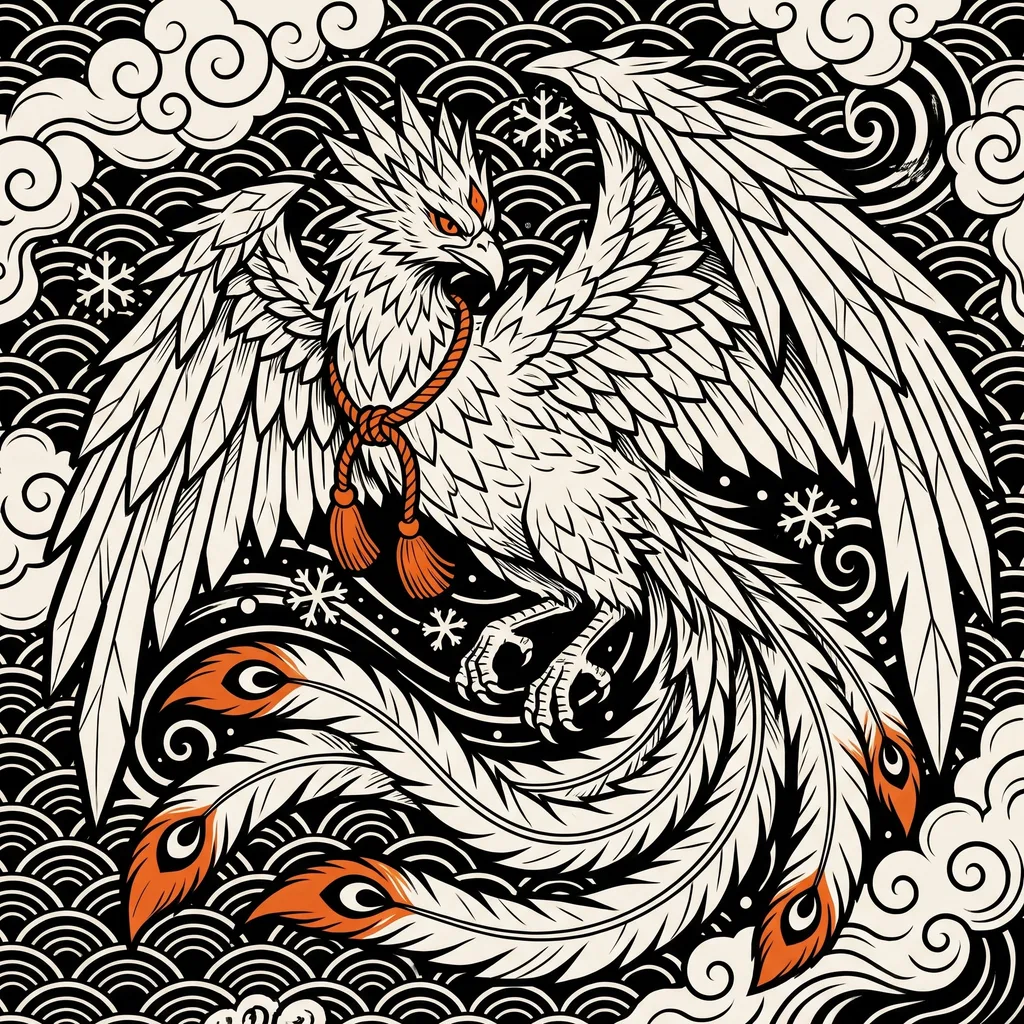
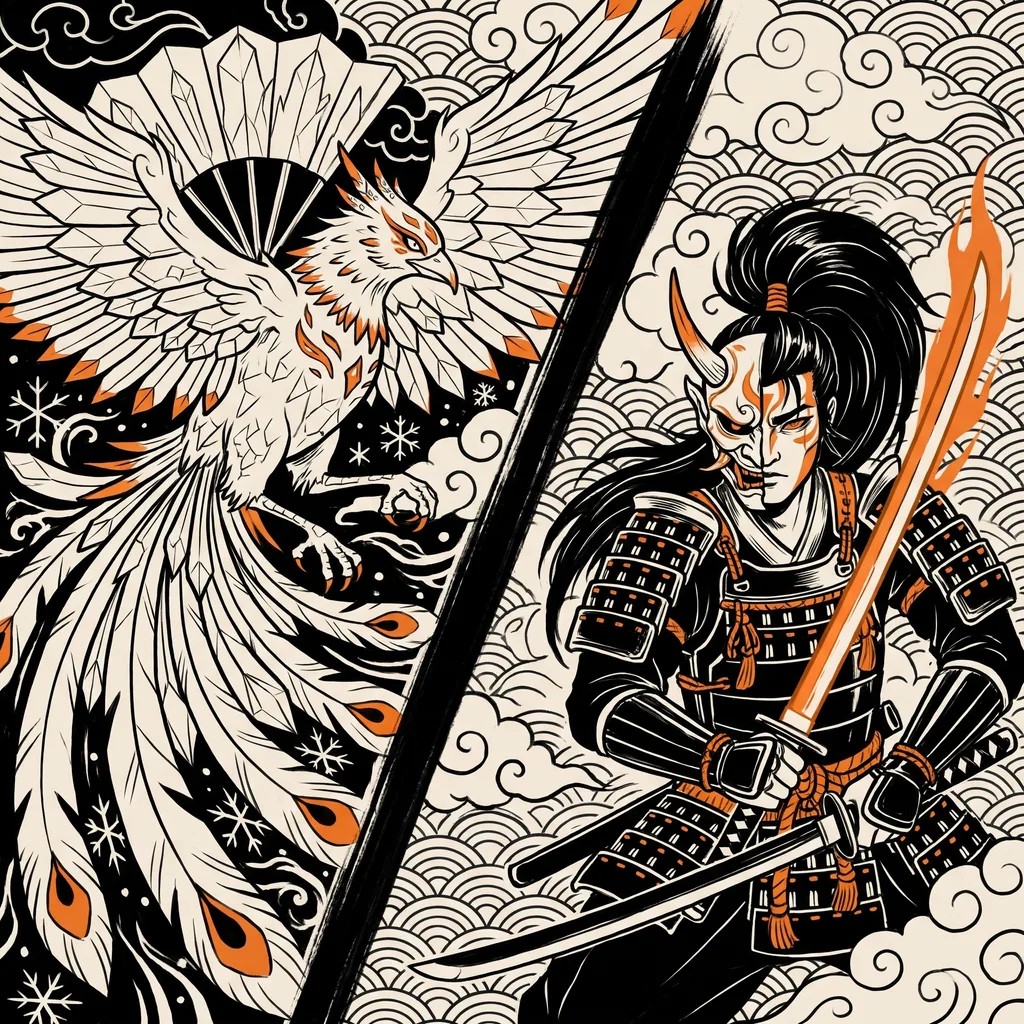
Kitsune completa: PABLO, EL 64, SPORFU / MANU y JEEDA, con sus tiers y sus cartas
- Plantilla y tiers de Kitsune (TORA) que dio el usuario, a la hoja con una importación de una vez
- Dibujos nuevos: Varus (top), Thresh (support) y Anivia + Yone mitad y mitad (medio); Viego se reutiliza
- Los nombres largos van en letra más pequeña en la carta (web y Discord)

diff --git a/public/carta.js b/public/carta.js
@@ -25,7 +25,8 @@ export function cartaHTML(c, { cantidad = null, nombreClan = id => id } = {}) {
   const completa = Boolean(c.fullart) || legado;
   const quien = boost || legado ? escapar(c.subtitulo) : `${ROL[c.rol] || c.rol} · ${escapar(nombreClan(c.clan))}`;
   // Las BOOST llevan su multiplicador bajo el apodo y la frase entera al pasar el ratón
-  return `<div class="carta-g${falta ? ' falta' : ''}${completa ? ' fullart' : ''}${boost ? ' boost' : ''}${legado ? ' legacy' : ''}" data-tier="${k}" style="--color-tier: var(--tier-${k})"${c.bonus ? ` title="${escapar(c.bonus.texto)}"` : ''}>
+  // Los nombres largos (FROZENRONIN, o dos jugadores que comparten carta: «SPORFU / MANU») van en letra más pequeña
+  return `<div class="carta-g${falta ? ' falta' : ''}${completa ? ' fullart' : ''}${String(c.nombre).length > 10 ? ' nombre-largo' : ''}${boost ? ' boost' : ''}${legado ? ' legacy' : ''}" data-tier="${k}" style="--color-tier: var(--tier-${k})"${c.bonus ? ` title="${escapar(c.bonus.texto)}"` : ''}>
     <img class="arte" src="${escapar(c.fullart || c.arte || logo(c.clan))}" alt="" loading="lazy"><span class="velo"></span>
     <span class="hanko rareza" title="${legado ? 'Carta LEGACY' : `Tier ${c.tier}`}">${c.tier}</span>${emblema ? `<img class="logo" src="${emblema}" alt="">` : ''}
     <div class="pie"><b class="nick">${escapar(c.nombre)}</b><span class="rol">${quien}</span>${c.bonus ? `<b class="bonus">${escapar(c.bonus.etiqueta)}</b>` : ''}</div>

diff --git a/public/compartir.js b/public/compartir.js
@@ -202,7 +202,9 @@ export async function dibujarCarta(ctx, c, x, y, w, { cantidad = 1, nombreClan =
     if (emblema) kamon(ctx, emblema, x + w - 11.5 * u, y + 11.5 * u, 7.5 * u, color);
     // Debajo: el nombre en letra de rótulo, inclinado, y el rol con su familia (o lo que hace la BOOST)
     const lineas = c.bonus ? [106, 119, 130] : [107, 122];
-    textoInclinado(ctx, c.nombre, x + 6 * u, y + lineas[0] * u, { fuente: `400 ${10.5 * u}px ${ROTULO}`, base: 'middle', ancho: w * 0.86 });
+    // Los nombres largos, en letra más pequeña (como .nombre-largo en carta.css)
+    const tamano = String(c.nombre).length > 10 ? 7.6 : 10.5;
+    textoInclinado(ctx, c.nombre, x + 6 * u, y + lineas[0] * u, { fuente: `400 ${tamano * u}px ${ROTULO}`, base: 'middle', ancho: w * 0.86 });
     texto(ctx, quien.toUpperCase(), x + 6 * u, y + lineas[1] * u, { fuente: `700 ${4.6 * u}px ${GOTHIC}`, color: C.gris, base: 'middle', ancho: w * 0.88 });
     if (c.bonus) texto(ctx, c.bonus.etiqueta, x + 6 * u, y + lineas[2] * u, { fuente: `800 ${4.6 * u}px ${GOTHIC}`, base: 'middle', ancho: w * 0.88 });
     // El brillo de la tier en el borde: D y C mate, B con canto de color, A y S con neón, S+ en oro

diff --git a/public/carta.css b/public/carta.css
@@ -18,6 +18,7 @@
 .carta-g .pie { position: absolute; left: 6cqw; right: 6cqw; top: 101cqw; bottom: 4cqw; display: flex; flex-direction: column; justify-content: center; gap: .6cqw; }
 .carta-g .nick { font-family: var(--rotulo); font-weight: 400; font-size: 10.5cqw; line-height: 1.1; color: #E7DFD2; transform: skewX(-10deg); transform-origin: left;
   white-space: nowrap; overflow: hidden; text-overflow: ellipsis; }
+.carta-g.nombre-largo .nick { font-size: 7.6cqw; }
 .carta-g .rol { font-size: 4.6cqw; font-weight: 700; letter-spacing: .08em; text-transform: uppercase; color: #A7A3B3; white-space: nowrap; overflow: hidden; text-overflow: ellipsis; }
 .carta-g .bonus { font-size: 4.6cqw; font-weight: 800; color: #E7DFD2; white-space: nowrap; overflow: hidden; text-overflow: ellipsis; }
 .carta-g .cantidad { position: absolute; right: 5cqw; bottom: 5cqw; padding: .6cqw 2.4cqw; background: #E0303A; color: #07080C; font-family: var(--rotulo); font-size: 5.4cqw; transform: skewX(-12deg); }

diff --git a/PROGRESO.md b/PROGRESO.md
@@ -359,3 +359,8 @@ Diseño aprobado en `docs/superpowers/specs/2026-10-04-ingame-mejoras-design.md`
 - **Textos:** clan → familia, samurái/Tenka Ichi → Gokudō en la portada, el gachapon, la tier list y los mensajes de Discord.
 - **Sin tocar:** la recompensa de Twitch sigue llamándose «Sobre de Tenka Ichi» (renombrarla crea otra y deja la vieja sin atender: va con la fase 6), la guía, el panel y el overlay (cogen los nombres y logos nuevos, pero no `neon.css`), y la dirección tenka-ichi.onrender.com.
 - Pruebas: 208.
+
+## 07/11: Kitsune completa
+- El usuario dio la plantilla de Kitsune (TORA): PABLO top (Varus, B), EL 64 jungla (Viego, C), SPORFU y MANU medio (Anivia y Yone en una sola carta mitad y mitad, A; en la plantilla «SPORFU / MANU»), NARCISO adc (Kai'Sa, A) y JEEDA support (Thresh, C). Va en una importación de una vez (importaciones.json) y en plantillas.json.
+- Dibujos nuevos en Flow (proyecto «Tenka Ichi · cartas», mismo método y maestra TORA.jpeg): TORA-TOP Varus, TORA-SUPPORT Thresh y TORA-MEDIO Anivia + Yone partida en diagonal. TORA-JUNGLA (Viego) se reutiliza. Los de Aatrox, Nautilus y la Anivia sola quedan en koryu-budo/gachapón/descartes/.
+- Los nombres largos (más de 10 letras) van en letra más pequeña en la carta, en la web y en Discord.
